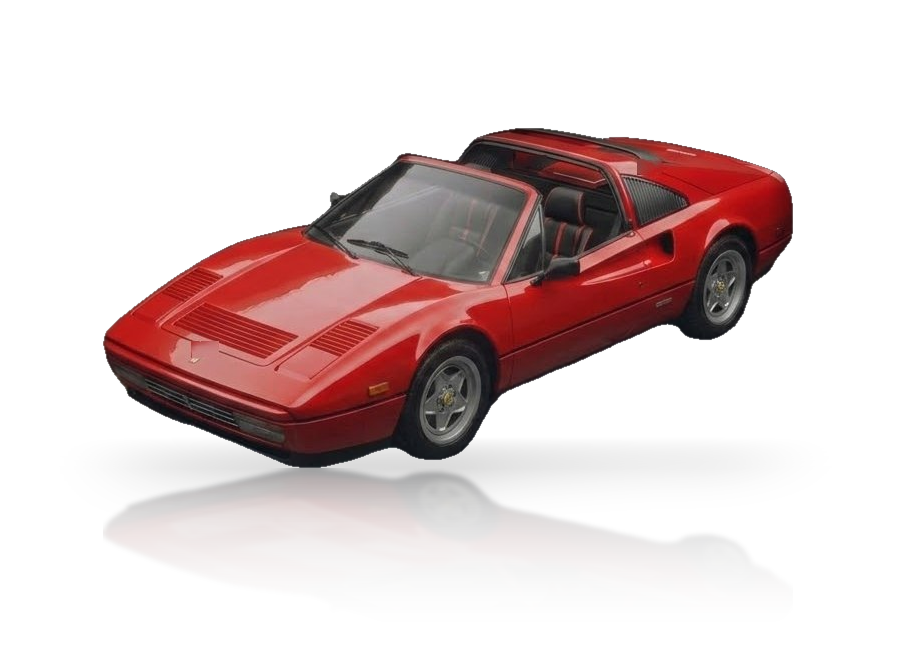
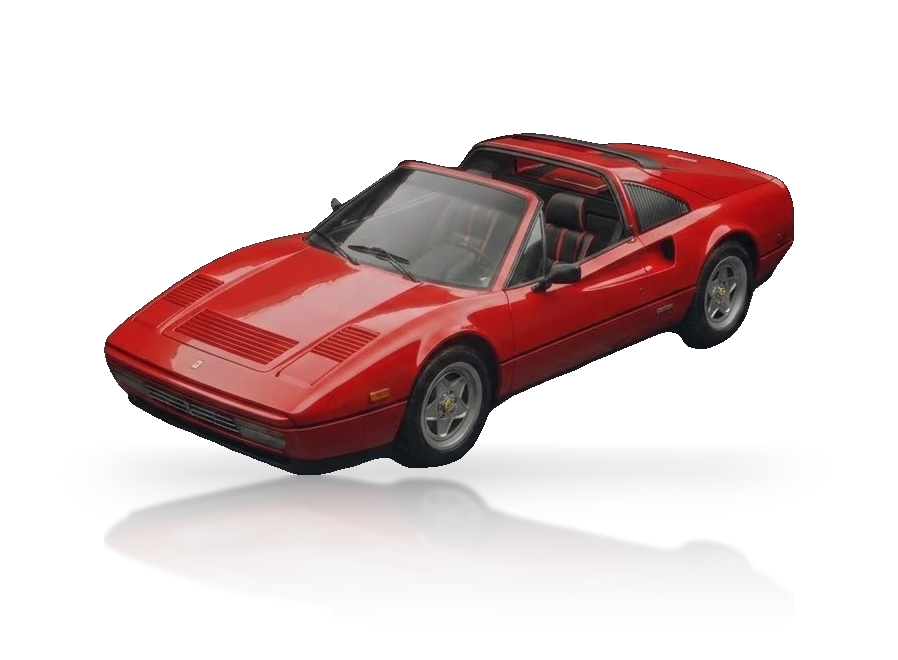
Re-cut every car from its original frame -- the bundle crops were clipping them
You spotted the Cullinan's front tyre sliced flat, and the Testarossa's roof
before it. Measuring properly showed it was not two cars: ALL FIFTEEN bundle
heroes are cropped to within 5-8px of the car on every side, so JPEG softening
and the floor reflection push real edges past the boundary.

My first clip check missed it because it thresholded on brightness, which a
black tyre on a black stage never trips. The re-measure compares against the
sampled stage colour instead, which is what surfaced all fifteen.

A crop cannot be undone downstream, so the cut is taken again from the
1374x768 frames in docs/design/cars: segment first, find where the car
actually is, crop second. The script asserts every car has clear margin inside
its window and fails loudly otherwise -- so a clip cannot slip through again.
Margins are now 80-209px instead of 5-8. The Cullinan came back 63px taller
(that tyre) and the Testarossa 22px (the roof); the Aventador and GT3 RS also
gained.

Canvas is 898x660 with the ground line at 72%, and the hero's own ring follows
it (viewBox 898x660, cy 475), so tyres and ellipse stay the same line.

Also fixed a caching trap that made this hard to see: next/image was serving a
STALE WEBP variant. The PNG variant returned the new image while WebP returned
the old aspect, both reporting x-nextjs-cache HIT -- and browsers ask for WebP,
so the page rendered the old asset in a new-sized box. Clearing .next/cache/
images was not enough; the whole .next had to go.

diff --git a/app/data/cars.ts b/app/data/cars.ts
@@ -190,7 +190,7 @@ export const cars: Car[] = [
     specs: { engine: "8.0L quad-turbo W16", power: "1,479 hp", zeroToHundred: "2.4 s", topSpeed: "420 km/h", drivetrain: "AWD", weight: "1,995 kg", basis: "base model", source: "https://www.bugatti.com/models/chiron-models/chiron/", verified: false },
     num: { hp: 1479, kg: 1995, acc: 2.4, vmax: 420 },
     palette: ["#1968a9", "#5799ca", "#0a3c78", "#565757", "#262727"],
-    heroSize: [897, 650],
+    heroSize: [898, 660],
   },
   {
     make: "McLaren", model: "Senna (MSO Carbon Edition)",
@@ -202,7 +202,7 @@ export const cars: Car[] = [
     specs: { engine: "4.0L twin-turbo V8", power: "789 hp", zeroToHundred: "2.8 s", topSpeed: "340 km/h", drivetrain: "RWD", weight: "1,198 kg (dry)", basis: "base model", source: "https://cars.mclaren.com/en/ultimate/senna", verified: false },
     num: { hp: 789, kg: 1198, acc: 2.8, vmax: 340 },
     palette: ["#e6e8eb", "#a5a6a7", "#868686", "#686868", "#373737"],
-    heroSize: [897, 650],
+    heroSize: [898, 660],
   },
   {
     make: "Ferrari", model: "SF90 Spider", year: 2025,
@@ -213,7 +213,7 @@ export const cars: Car[] = [
     specs: { engine: "4.0L twin-turbo V8 plug-in hybrid", power: "986 hp", zeroToHundred: "2.5 s", topSpeed: "340 km/h", drivetrain: "AWD", weight: "1,670 kg (dry)", basis: "as built", source: "https://www.ferrari.com/en-EN/auto/sf90-spider", verified: false },
     num: { hp: 986, kg: 1670, acc: 2.5, vmax: 340 },
     palette: ["#484749", "#686669", "#868587", "#f5f6f5", "#262629"],
-    heroSize: [897, 650],
+    heroSize: [898, 660],
   },
   {
     make: "Ferrari", model: "Purosangue", year: 2024,
@@ -225,7 +225,7 @@ export const cars: Car[] = [
     specs: { engine: "6.5L naturally aspirated V12", power: "715 hp", zeroToHundred: "3.3 s", topSpeed: "310 km/h", drivetrain: "AWD", weight: "2,033 kg (dry)", basis: "as built", source: "https://www.ferrari.com/en-EN/auto/ferrari-purosangue", verified: false },
     num: { hp: 715, kg: 2033, acc: 3.3, vmax: 310 },
     palette: ["#e6e6e8", "#949496", "#777677", "#575758", "#262627"],
-    heroSize: [897, 650],
+    heroSize: [898, 660],
   },
   {
     make: "Lamborghini", model: "Revuelto", year: 2025,
@@ -237,7 +237,7 @@ export const cars: Car[] = [
     specs: { engine: "6.5L naturally aspirated V12 plug-in hybrid", power: "1,001 hp", zeroToHundred: "2.5 s", topSpeed: "350 km/h", drivetrain: "AWD", weight: "1,772 kg (dry)", basis: "as built", source: "https://www.lamborghini.com/en-en/models/revuelto", verified: false },
     num: { hp: 1001, kg: 1772, acc: 2.5, vmax: 350 },
     palette: ["#e5c806", "#f4e266", "#866a16", "#48433a", "#272625"],
-    heroSize: [897, 650],
+    heroSize: [898, 660],
   },
   {
     make: "Rolls-Royce", model: "Cullinan Black Badge", year: 2024,
@@ -249,7 +249,7 @@ export const cars: Car[] = [
     specs: { engine: "6.75L twin-turbo V12", power: "592 hp", zeroToHundred: "5.2 s", topSpeed: "250 km/h", drivetrain: "AWD", weight: "2,753 kg", basis: "as built", source: "https://www.rolls-roycemotorcars.com/en_GB/showroom/black-badge-cullinan.html", verified: false },
     num: { hp: 592, kg: 2753, acc: 5.2, vmax: 250 },
     palette: ["#84888c", "#c4c8cb", "#646668", "#45484a", "#25272a"],
-    heroSize: [897, 650],
+    heroSize: [898, 660],
   },
   {
     make: "Lamborghini", model: "Aventador SVJ Roadster", year: 2022,
@@ -262,7 +262,7 @@ export const cars: Car[] = [
     specs: { engine: "6.5L naturally aspirated V12", power: "759 hp", zeroToHundred: "2.9 s", topSpeed: "350 km/h", drivetrain: "AWD", weight: "1,575 kg (dry)", basis: "as built", source: "https://www.lamborghini.com/en-en/history/aventador-svj-roadster", verified: false },
     num: { hp: 759, kg: 1575, acc: 2.9, vmax: 350 },
     palette: ["#391a57", "#583a75", "#767676", "#474748", "#262728"],
-    heroSize: [897, 650],
+    heroSize: [898, 660],
   },
   {
     make: "Rolls-Royce", model: "Dawn", year: 2019,
@@ -274,7 +274,7 @@ export const cars: Car[] = [
     specs: { engine: "6.6L twin-turbo V12", power: "563 hp", zeroToHundred: "5.0 s", topSpeed: "250 km/h", drivetrain: "RWD", weight: "2,560 kg", basis: "as built", source: "https://www.press.rolls-roycemotorcars.com/rolls-royce-motor-cars-pressclub/", verified: false },
     num: { hp: 563, kg: 2560, acc: 5.0, vmax: 250 },
     palette: ["#691c23", "#9b7778", "#6a6968", "#474746", "#272727"],
-    heroSize: [897, 650],
+    heroSize: [898, 660],
   },
   {
     make: "Ferrari", model: "812 GTS", year: 2023,
@@ -286,7 +286,7 @@ export const cars: Car[] = [
     specs: { engine: "6.5L naturally aspirated V12", power: "789 hp", zeroToHundred: "3.0 s", topSpeed: "340 km/h", drivetrain: "RWD", weight: "1,600 kg (dry)", basis: "as built", source: "https://www.ferrari.com/en-EN/auto/812-gts", verified: false },
     num: { hp: 789, kg: 1600, acc: 3.0, vmax: 340 },
     palette: ["#585958", "#767776", "#989896", "#f7f7f6", "#252729"],
-    heroSize: [897, 650],
+    heroSize: [898, 660],
   },
   {
     make: "Porsche", model: "911 GT3 RS (Weissach)", year: 2025,
@@ -299,7 +299,7 @@ export const cars: Car[] = [
     specs: { engine: "4.0L naturally aspirated flat-six", power: "518 hp", zeroToHundred: "3.2 s", topSpeed: "296 km/h", drivetrain: "RWD", weight: "1,450 kg", basis: "as built", source: "https://www.porsche.com/international/models/911/911-gt3-models/911-gt3-rs/", verified: false },
     num: { hp: 518, kg: 1450, acc: 3.2, vmax: 296 },
     palette: ["#ba4849", "#571923", "#787877", "#585858", "#252627"],
-    heroSize: [897, 650],
+    heroSize: [898, 660],
   },
   {
     make: "Lamborghini", model: "Urus (Novitec Edition)", year: 2022,
@@ -311,7 +311,7 @@ export const cars: Car[] = [
     specs: { engine: "4.0L twin-turbo V8", power: "641 hp", zeroToHundred: "3.6 s", topSpeed: "305 km/h", drivetrain: "AWD", weight: "2,200 kg (dry)", basis: "base model", source: "https://www.lamborghini.com/en-en/history/urus", verified: false },
     num: { hp: 641, kg: 2200, acc: 3.6, vmax: 305 },
     palette: ["#3d2352", "#836a94", "#99959b", "#696969", "#262627"],
-    heroSize: [897, 650],
+    heroSize: [898, 660],
   },
   {
     // OPEN: may be the previous-generation S650 — his own Instagram photo shows
@@ -325,7 +325,7 @@ export const cars: Car[] = [
     specs: { engine: "6.0L twin-turbo V12", power: "603 hp", zeroToHundred: "4.5 s", topSpeed: "250 km/h", drivetrain: "AWD", weight: "2,315 kg", basis: "as built", source: "https://www.mercedes-benz.com/en/vehicles/mercedes-maybach/", verified: false },
     num: { hp: 603, kg: 2315, acc: 4.5, vmax: 250 },
     palette: ["#6a8aa4", "#88a8c2", "#767879", "#55575a", "#262629"],
-    heroSize: [897, 650],
+    heroSize: [898, 660],
   },
   {
     make: "Mercedes-Maybach", model: "GLS 600", year: 2024,
@@ -336,7 +336,7 @@ export const cars: Car[] = [
     specs: { engine: "4.0L twin-turbo V8 · 48V mild hybrid", power: "550 hp", zeroToHundred: "4.9 s", topSpeed: "250 km/h", drivetrain: "AWD", weight: "2,785 kg", basis: "as built", source: "https://www.mercedes-benz.com/en/vehicles/mercedes-maybach/", verified: false },
     num: { hp: 550, kg: 2785, acc: 4.9, vmax: 250 },
     palette: ["#878687", "#d6d6d8", "#676767", "#474748", "#262628"],
-    heroSize: [897, 650],
+    heroSize: [898, 660],
   },
   {
     // OPEN: the August 2026 crane-lift photographs show a narrow-body targa
@@ -350,7 +350,7 @@ export const cars: Car[] = [
     specs: { engine: "4.9L flat-12", power: "385 hp", zeroToHundred: "5.8 s", topSpeed: "290 km/h", drivetrain: "RWD", weight: "1,506 kg (dry)", basis: "as built", source: "https://www.ferrari.com/en-EN/auto/testarossa", verified: false },
     num: { hp: 385, kg: 1506, acc: 5.8, vmax: 290 },
     palette: ["#a72c2a", "#c57a76", "#89868a", "#3a444b", "#282528"],
-    heroSize: [897, 650],
+    heroSize: [898, 660],
   },
   {
     make: "Ferrari", model: "328 GTS", year: 1985,
@@ -361,7 +361,7 @@ export const cars: Car[] = [
     specs: { engine: "3.2L V8", power: "266 hp", zeroToHundred: "5.5 s", topSpeed: "263 km/h", drivetrain: "RWD", weight: "1,273 kg (dry)", basis: "as built", source: "https://www.ferrari.com/en-EN/auto/328-gts", verified: false },
     num: { hp: 266, kg: 1273, acc: 5.5, vmax: 263 },
     palette: ["#981717", "#571619", "#d59998", "#494745", "#282627"],
-    heroSize: [897, 650],
+    heroSize: [898, 660],
   },
 
   // ===== No longer counted in the live collection — no slug, no image, no route =====

diff --git a/app/records/cars/[car]/page.tsx b/app/records/cars/[car]/page.tsx
@@ -75,15 +75,15 @@ function Floor() {
 }
 
 /* The ring at phone and tablet widths, drawn in the hero image's own box.
-   Its viewBox is the hero canvas and cy is the canvas's ground line — 468 of
-   650 — so the car's tyres land on the ellipse by construction, at any size. */
+   Its viewBox is the hero canvas and cy is the canvas's ground line — 475 of
+   660 — so the car's tyres land on the ellipse by construction, at any size. */
 function Ring() {
   return (
-    <svg className={styles.ring} viewBox="0 0 897 650" preserveAspectRatio="none" aria-hidden="true">
-      <ellipse cx="448" cy="468" rx="405" ry="106" fill="none" stroke="rgba(224,138,46,0.5)" strokeWidth="2" />
-      <ellipse cx="448" cy="468" rx="405" ry="106" fill="none" stroke="rgba(224,138,46,0.16)" strokeWidth="11" />
-      <ellipse cx="448" cy="468" rx="336" ry="88" fill="none" stroke="rgba(224,138,46,0.2)" strokeWidth="2" strokeDasharray="7 18" />
-      <line x1="0" y1="468" x2="897" y2="468" stroke="rgba(245,240,232,0.06)" strokeWidth="2" />
+    <svg className={styles.ring} viewBox="0 0 898 660" preserveAspectRatio="none" aria-hidden="true">
+      <ellipse cx="449" cy="475" rx="406" ry="106" fill="none" stroke="rgba(224,138,46,0.5)" strokeWidth="2" />
+      <ellipse cx="449" cy="475" rx="406" ry="106" fill="none" stroke="rgba(224,138,46,0.16)" strokeWidth="11" />
+      <ellipse cx="449" cy="475" rx="337" ry="88" fill="none" stroke="rgba(224,138,46,0.2)" strokeWidth="2" strokeDasharray="7 18" />
+      <line x1="0" y1="475" x2="898" y2="475" stroke="rgba(245,240,232,0.06)" strokeWidth="2" />
     </svg>
   );
 }
